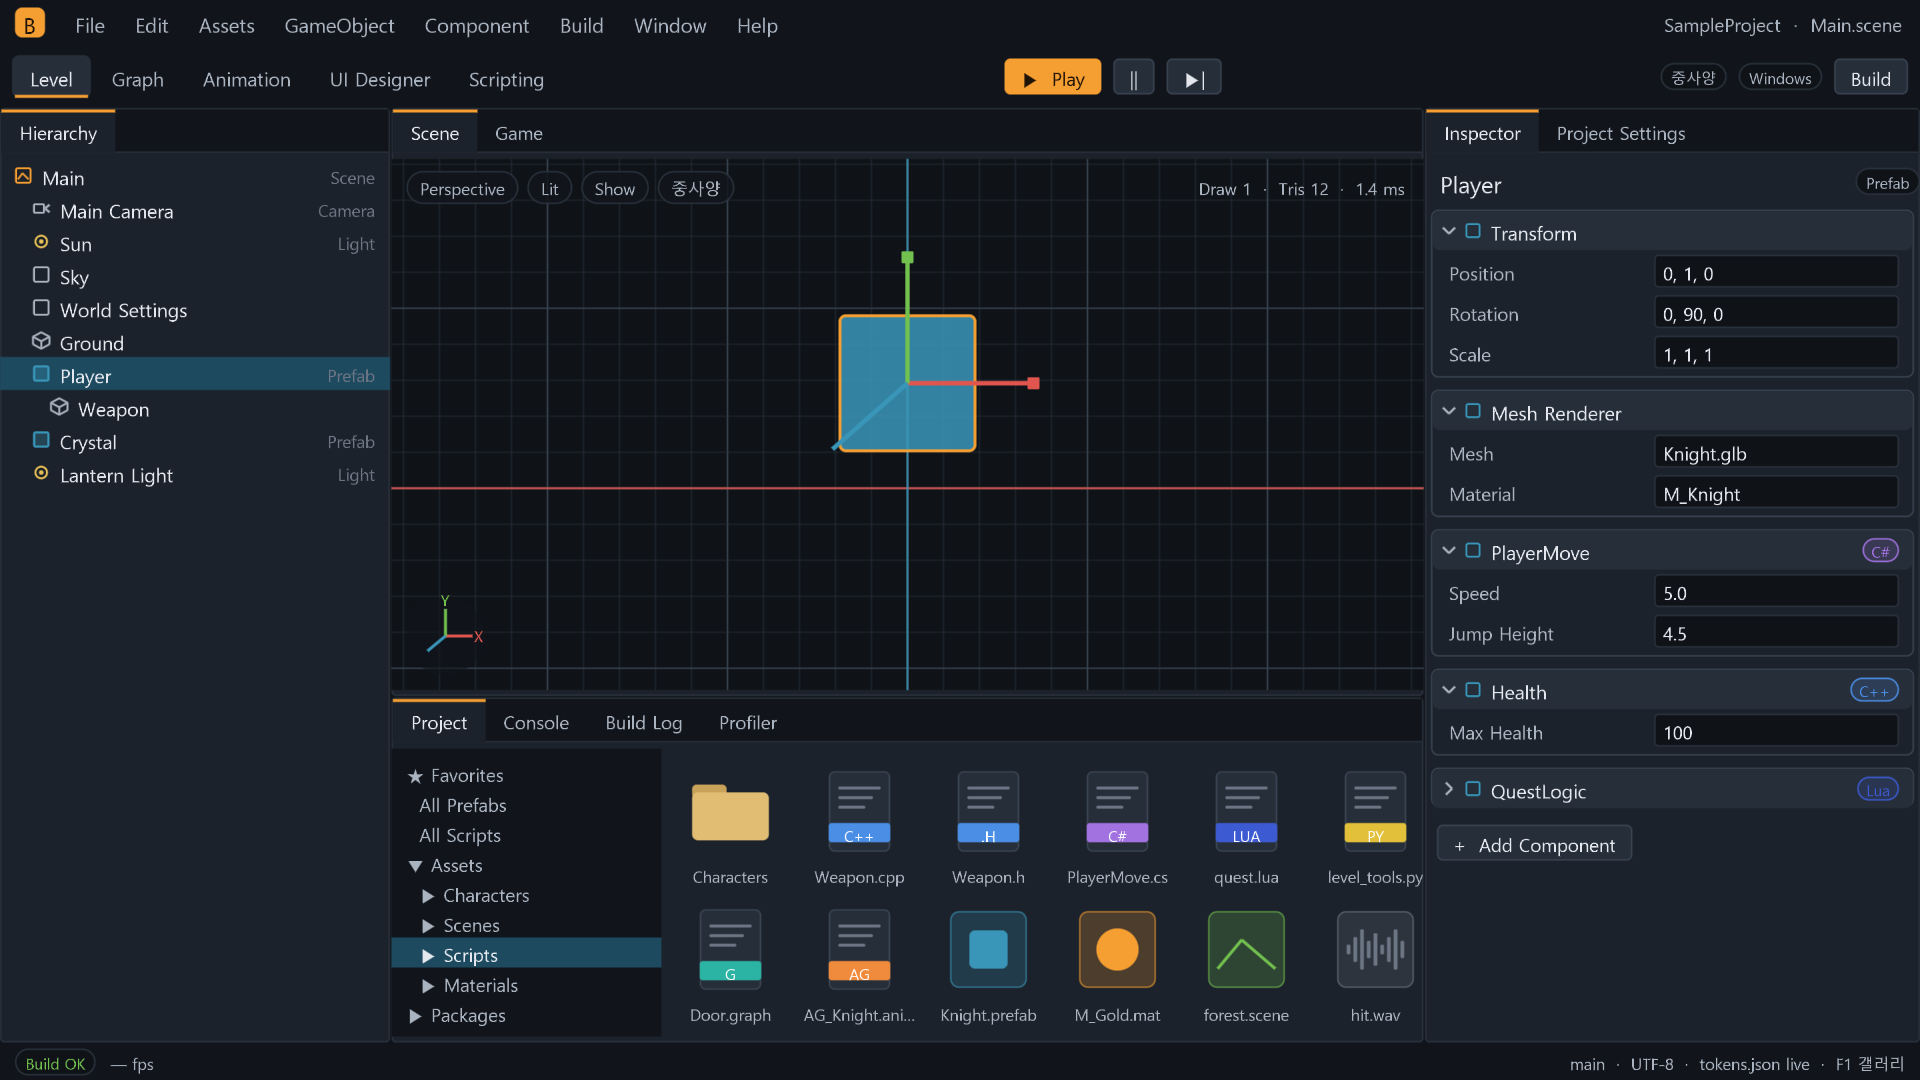
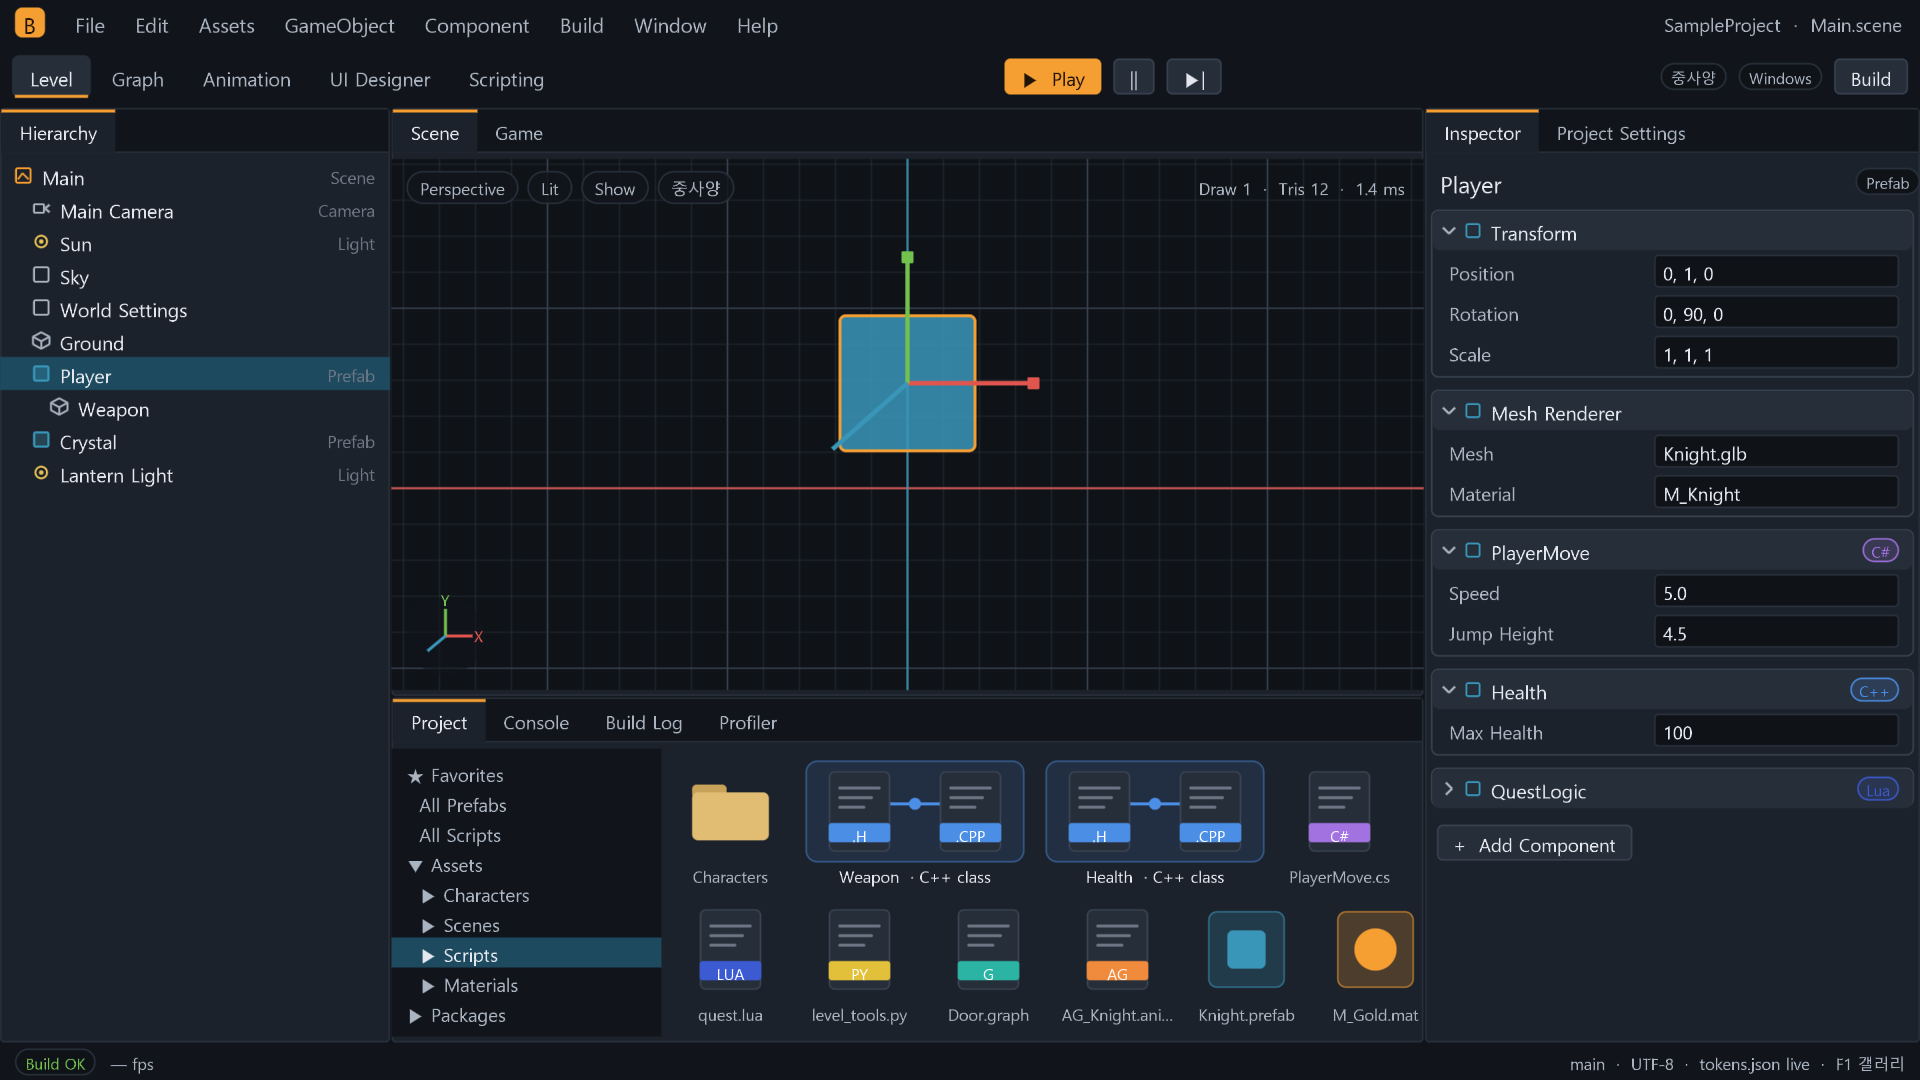
Editor: show C++ header/source pairs as one linked 'C++ class' tile in the Project panel
- Same-stem .h + .cpp in a folder are framed together with a link; orphans stay single
- .cpp tag reads .CPP; docs describe list-view nesting, paired open/rename (M2 2-5)
- Screenshots refreshed

Changed region(s): [[0.3438, 0.7028, 0.75, 0.9472]]

diff --git a/Engine/Runtime/Screens.cpp b/Engine/Runtime/Screens.cpp
@@ -128,7 +128,7 @@ void DrawFileIcon(UIContext& ui, float x, float y, float s, const std::string& n
   Batch2D& b = ui.Batch();
   std::string ext = name.substr(name.find_last_of('.') == std::string::npos ? name.size() : name.find_last_of('.') + 1);
   struct Kind { const char* ext; const char* token; const char* tag; };
-  static const Kind code[] = {{"cpp", "lang-cpp", "C++"}, {"h", "lang-cpp", ".H"}, {"cs", "lang-cs", "C#"},
+  static const Kind code[] = {{"cpp", "lang-cpp", ".CPP"}, {"h", "lang-cpp", ".H"}, {"cs", "lang-cs", "C#"},
                               {"lua", "lang-lua", "LUA"}, {"py", "lang-py", "PY"}, {"graph", "lang-graph", "G"},
                               {"animgraph", "lang-anim", "AG"}};
   for (const Kind& k : code) {
@@ -166,17 +166,50 @@ void DrawBottomDock(Widget& w, UIContext& ui, const Widget* panel) {
       if (i == 6) b.Rect(w.x, w.y + 6 + i * 20.f, tw, 20, t.C("selection"));
       ui.Text(w.x + 10, w.y + 9 + i * 20.f, body, i == 6 ? t.C("fg") : t.C("fg-dim"), tree[i]);
     }
-    const char* files[] = {"Characters", "Weapon.cpp", "Weapon.h", "PlayerMove.cs", "quest.lua", "level_tools.py", "Door.graph",
-                           "AG_Knight.animgraph", "Knight.prefab", "M_Gold.mat", "forest.scene", "hit.wav", "Rock_A.glb"};
+    // C++ header + source with the same name are shown as ONE linked "C++ class" tile (like Rider / Visual Studio).
+    std::vector<std::string> files = {"Characters", "Weapon.cpp", "Weapon.h", "Health.h", "Health.cpp", "PlayerMove.cs",
+                                      "quest.lua", "level_tools.py", "Door.graph", "AG_Knight.animgraph", "Knight.prefab",
+                                      "M_Gold.mat", "forest.scene", "hit.wav", "Utils.h"};
+    auto stem = [](const std::string& f) { size_t d = f.find_last_of('.'); return d == std::string::npos ? f : f.substr(0, d); };
+    auto extOf = [](const std::string& f) { size_t d = f.find_last_of('.'); return d == std::string::npos ? std::string() : f.substr(d + 1); };
+    struct Entry { std::string name; bool pair; };
+    std::vector<Entry> entries;
+    for (const std::string& f : files) {
+      std::string e = extOf(f);
+      if (e == "h" || e == "cpp") {
+        std::string other = stem(f) + (e == "h" ? ".cpp" : ".h");
+        bool hasOther = std::find(files.begin(), files.end(), other) != files.end();
+        if (hasOther) {
+          bool seen = false;
+          for (auto& en : entries) seen |= en.pair && en.name == stem(f);
+          if (!seen) entries.push_back({stem(f), true});
+          continue;
+        }
+      }
+      entries.push_back({f, false});
+    }
     float x = w.x + tw + 14, y = w.y + 10, s = 64;
-    for (const char* f : files) {
-      if (x + s > w.x + w.w) { x = w.x + tw + 14; y += s + 28; }
+    for (const Entry& en : entries) {
+      float tileW = en.pair ? s * 2 + 10 : s;
+      if (x + tileW > w.x + w.w) { x = w.x + tw + 14; y += s + 28; }
       if (y + s > w.y + w.h) break;
-      DrawFileIcon(ui, x, y, s, f);
-      std::string label = f;
-      while (ui.Measure(cap, label) > s + 14 && label.size() > 4) label = label.substr(0, label.size() - 4) + "…";
-      ui.Text(x + s * 0.5f - ui.Measure(cap, label) * 0.5f, y + s + 4, cap, t.C("fg-dim"), label);
-      x += s + 22;
+      std::string label = en.name;
+      if (en.pair) {
+        Color cpp = t.C("lang-cpp"), soft = cpp;
+        soft.a = 0.12f;
+        b.Rect(x - 4, y - 2, tileW + 8, s + 4, soft, 8, 1, Alpha(cpp, 0.55f));     // shared frame = one class
+        DrawFileIcon(ui, x, y, s, en.name + ".h");
+        DrawFileIcon(ui, x + s + 10, y, s, en.name + ".cpp");
+        float ly = y + s * 0.42f;                                               // link between the two files
+        b.Line(x + s * 0.82f, ly, x + s + 10 + s * 0.18f, ly, 2, cpp);
+        b.Rect(x + s + 5 - 4, ly - 4, 8, 8, cpp, 4);
+        label = en.name + "  · C++ class";
+      } else {
+        DrawFileIcon(ui, x, y, s, en.name);
+      }
+      while (ui.Measure(cap, label) > tileW + 14 && label.size() > 4) label = label.substr(0, label.size() - 4) + "…";
+      ui.Text(x + tileW * 0.5f - ui.Measure(cap, label) * 0.5f, y + s + 4, cap, en.pair ? t.C("fg") : t.C("fg-dim"), label);
+      x += tileW + 22;
     }
   } else if (tab == 1 || tab == 2) { // Console / Build Log
     struct Line { const char* lvl; const char* text; };

diff --git a/Docs/features/editor-ui.md b/Docs/features/editor-ui.md
@@ -131,3 +131,20 @@ Project 창과 선택 창에서 에셋을 두 가지로 보여 줍니다. 시안
 - 썸네일은 백그라운드에서 만들고 `.cache/thumbnails/`에 해시로 저장합니다. 원본이 바뀐 것만 다시 만듭니다.
 - 작은 보기에서는 썸네일 위에 종류 배지(작은 아이콘)를 겹쳐 종류를 구분합니다.
 - AI용: `bdg thumb <에셋>`으로 썸네일 PNG 경로를 받아 이미지로 확인할 수 있습니다.
+
+### C++ 헤더·소스 묶음 표시 (2026-11-22)
+
+같은 폴더에 같은 이름의 `.h`와 `.cpp`가 있으면 **하나의 "C++ class" 묶음**으로 보여 줍니다 (Rider·Visual Studio의 파일 묶기와 같은 방식). 파일이 많은 폴더에서 짝이 헷갈리지 않게 하기 위해서입니다.
+
+| 보기 | 표시 |
+|---|---|
+| 큰 보기 (타일) | 두 파일 아이콘을 C++ 색 테두리 하나로 감싸고, 사이를 연결선으로 이음. 이름은 `Weapon · C++ class` |
+| 목록 보기 | `Weapon.cpp` 아래에 `Weapon.h`가 들여쓰기된 자식으로 붙음 (접기 가능) |
+| 짝이 없는 파일 | `Utils.h`처럼 혼자 있으면 보통 파일로 표시 |
+| 생성 파일 | `Weapon.gen.h` / `.gen.cpp`(헤더 도구가 생성)는 기본으로 숨기고, 묶음에 작은 표시만 |
+
+- **열기:** 묶음을 더블클릭하면 Scripting 작업 공간에서 `.h`와 `.cpp`를 나란히 엽니다. `Ctrl+K, O`로 짝 파일 전환.
+- **이름 바꾸기·이동·삭제:** 두 파일에 함께 적용 (명령 하나라 Undo도 한 번). 클래스 이름 변경도 제안.
+- **새로 만들기:** `Create > C++ Class`는 두 파일을 함께 만들고 `BCLASS` 템플릿을 채움.
+- 같은 규칙을 다른 짝에도 쓸 수 있게 설정으로 둡니다 (예: `.shader` + `.shader.meta`는 숨김, `.animgraph` + 미리보기 캐시).
+- 구현 상태: Project 패널 큰 보기에서 묶음 타일 표시 완료 (`Engine/Runtime/Screens.cpp`). 목록 보기·열기·이름 바꾸기 연동은 M2 Project 패널(2-5)에서.

diff --git a/Docs/QUEUE.md b/Docs/QUEUE.md
@@ -168,7 +168,7 @@ Get-Content .\Bidulgi.log | Select-String "ui:|error|warn"
   - 완료 조건: 저장 → 다시 열기 → 다시 저장 시 파일이 바이트 단위로 같음.
 - [ ] **2-3. 에셋 데이터베이스** — 파일 감시, `.meta`(GUID, 임포트 설정, 출처·라이선스), GUID ↔ 경로 표. 이름 바꾸기·이동해도 참조 유지.
 - [ ] **2-4. Hierarchy·Inspector 실제 동작** — Hierarchy는 씬 트리 표시·선택·드래그로 부모 변경·이름 바꾸기. Inspector는 리플렉션으로 필드 자동 생성(`[Edit]` 메타: Range는 슬라이더, ShowIf, Header, Button). 편집은 전부 명령.
-- [ ] **2-5. Project 패널** — 실제 폴더 목록, 파일 종류 아이콘(시안: `prototype/asset-icons.html`), 썸네일 캐시 `.cache/thumbnails/`.
+- [ ] **2-5. Project 패널** — 실제 폴더 목록, 파일 종류 아이콘(시안: `prototype/asset-icons.html`), 썸네일 캐시 `.cache/thumbnails/`. **C++ `.h`+`.cpp` 묶음 표시**(타일은 시안 완료, 목록 보기 중첩·짝 열기·함께 이름 바꾸기는 여기서) — [editor-ui](features/editor-ui.md#c-헤더소스-묶음-표시-2026-11-22)
 - [ ] **2-6. 새 프로젝트 기본 3D 씬** — Main Camera, Sun, Sky, World Settings, Ground ([projects-and-templates](features/projects-and-templates.md)).
 - [ ] **2-7. CLI `bdg` 1차** — `bdg view/query/set/add/del/validate` 를 같은 명령 버스로 (에디터 없이 헤드리스 실행). AI가 쓰는 첫 경로.
 
